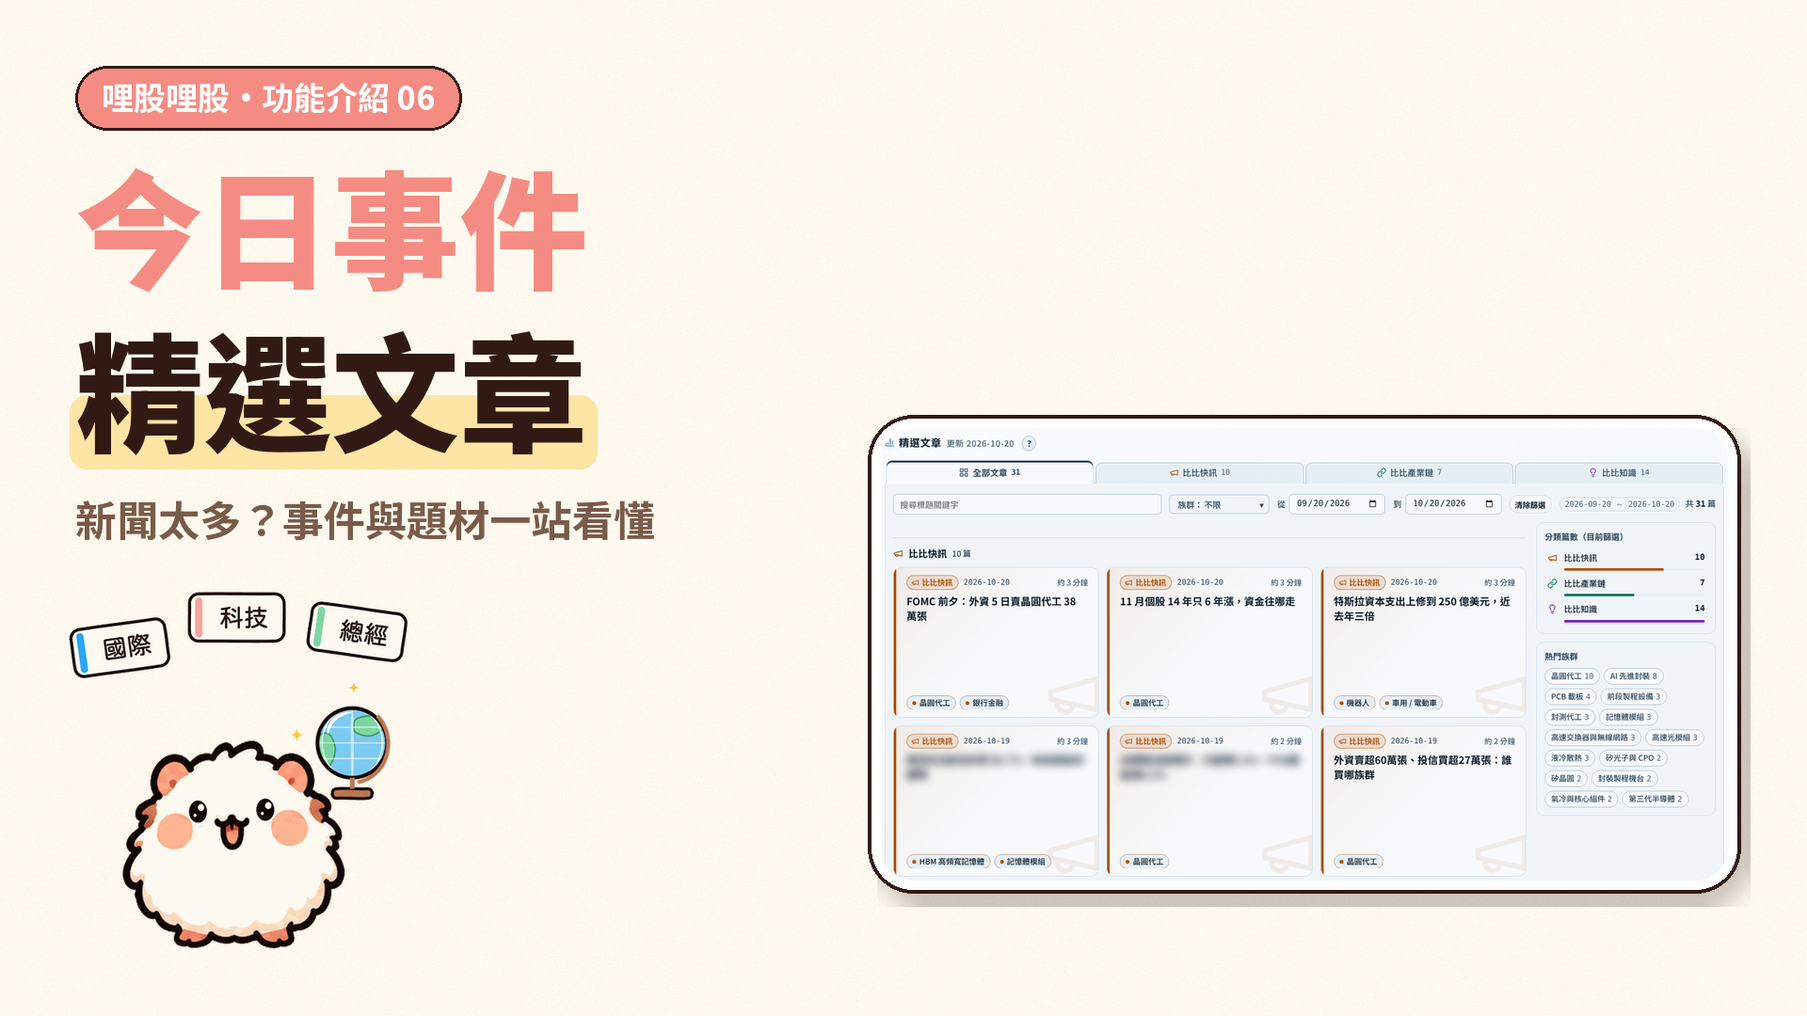
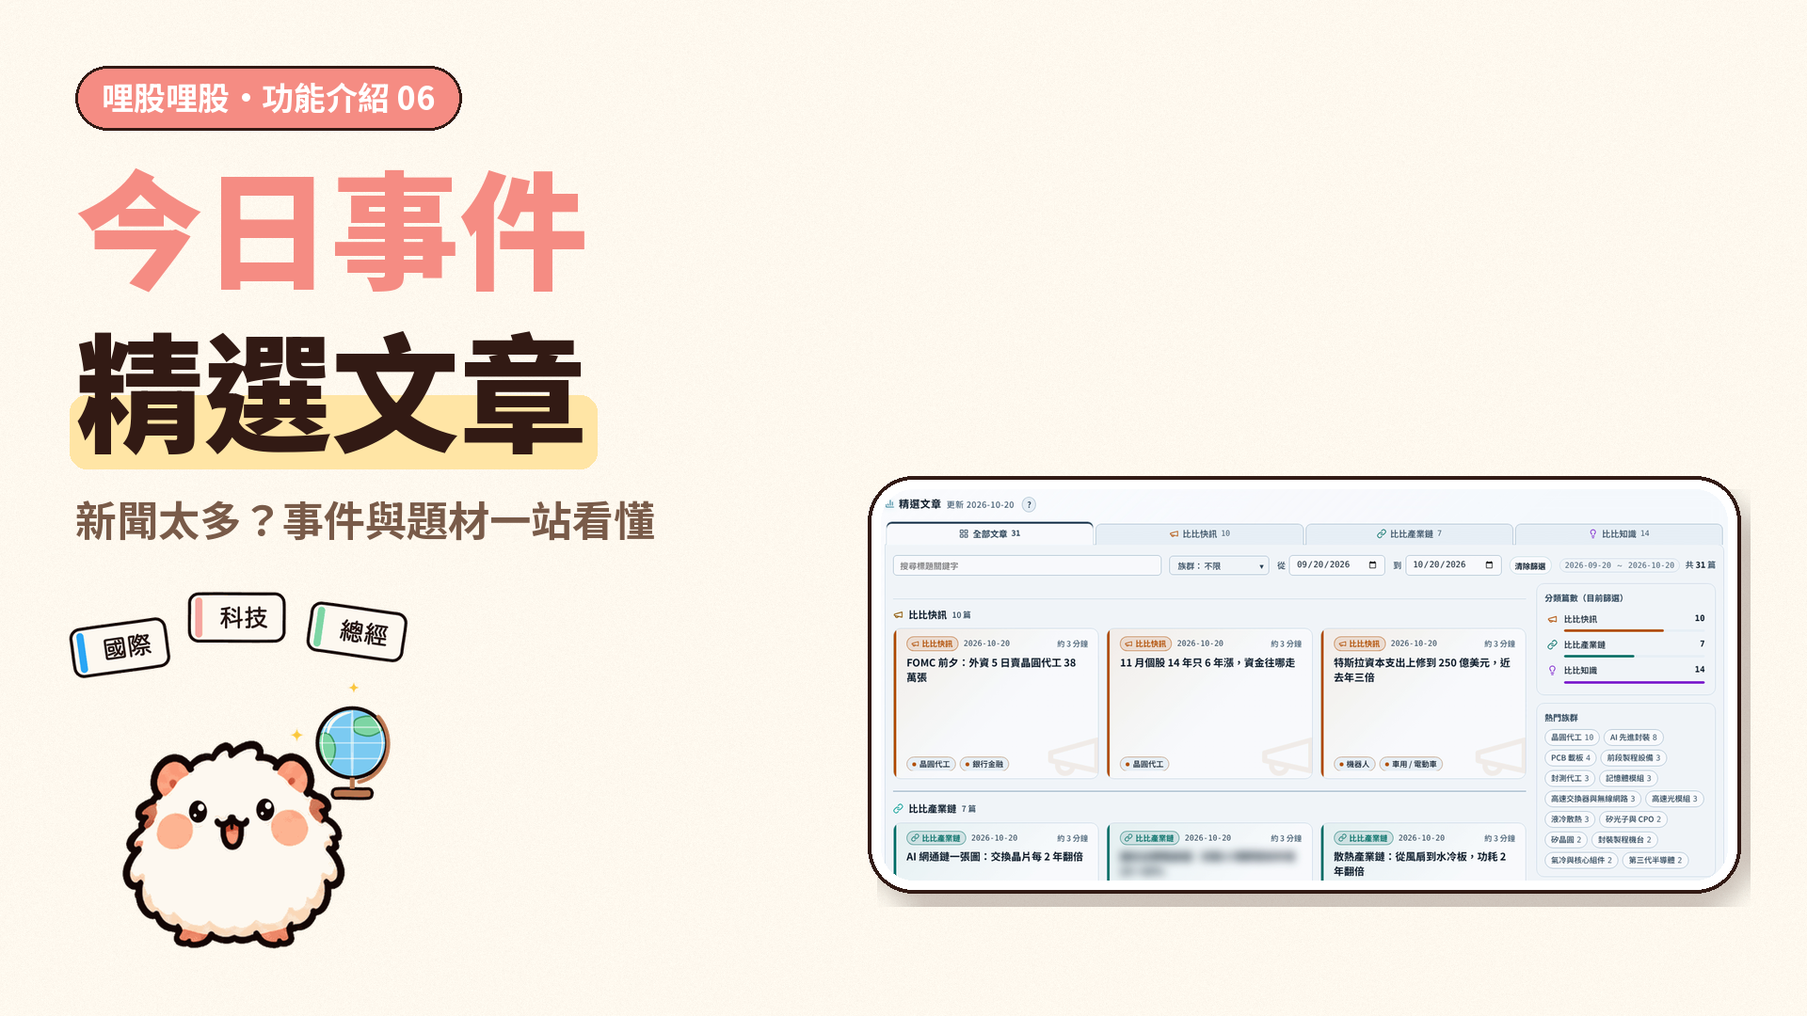
功能影片 6 網頁版 v3：文章段與特斯拉第一拍改推近（字放大 1.6 倍以上）、片尾推近、檢查報告更新
Claude-Session: https://claude.ai/code/session_01BcUKrYHkJGWWm6eHcrVxVX

Changed region(s): [[0.4688, 0.3972, 0.9688, 0.8861]]

diff --git a/docs/marketing/videos/feature_series/06_events_articles/capture_ev.py b/docs/marketing/videos/feature_series/06_events_articles/capture_ev.py
@@ -209,7 +209,7 @@ def goto(pg, hash_, wait=4000):
 EV_EDGES = ["txt:#evList .ev", "txt:#evFilters button", "#evDate", "txt:#evQuota", "txt:#side .side-h h3", "txt:#__vsel div"]
 NAV_EDGES = ["txt:#evToggle", "txt:#tabs .tab", ".search input"]
 TES_EDGES = ["txt:#artPost .artmeta", "txt:#artPost .artttl", "txt:#artHd", "txt:#artBody > figure", "txt:#artBody > p", "txt:#artBody > h4", "txt:#artBody > ul"]
-ART_EDGES = ["txt:.artc", "txt:#artCats>button", "txt:#artSide .gps button", "#artQ", "txt:#artSide .cr", "txt:.artflt", "txt:#artSide h5"]
+ART_EDGES = ["txt:.artc", "txt:#artCats>button", "txt:#artSide .gps button", "txt:#artSide .cr", "txt:.artflt", "txt:#artSide h5"]
 EV_HEAD = ["#side .side-h", "#evFilters"]
 
 
@@ -317,6 +317,25 @@ def fixed_rect(pg, sels):
     return f"rect:{x:.1f},{y:.1f},{w:.1f},{h:.1f}"
 
 
+SNAP_JS = r"""([x0, x1, y0, y1]) => { const boxes = []; const root = document.getElementById('v-articles') || document.body;
+  const w = document.createTreeWalker(root, NodeFilter.SHOW_TEXT); let n;
+  while ((n = w.nextNode())) { if (!n.textContent.trim()) continue; const pe = n.parentElement; if (!pe || pe.closest('[hidden]') || getComputedStyle(pe).visibility === 'hidden' || pe.closest('#__vsel')) continue;
+    const rg = document.createRange(); rg.selectNodeContents(n); for (const q of rg.getClientRects()) if (q.right > x0 && q.left < x1 && q.height > 1 && q.bottom > -50 && q.top < innerHeight + 50) boxes.push([q.top, q.bottom]); }
+  for (let k = 0; k < 40; k++) { let ch = false;
+    for (const [t, b] of boxes) { if (t - 4 < y0 && y0 < b + 4) { y0 = t - 5; ch = true; } if (t - 4 < y1 && y1 < b + 4) { y1 = b + 5; ch = true; } }
+    if (!ch) break; }
+  return [y0, y1]; }"""
+ASP = 1650 / 810
+
+
+def zr(pg, x, y0, w, y1=None):
+    """取景焦點 rect：寬 w（css）、從 y0 起、預設高＝w/畫面框比例；上下緣吸附到沒有文字橫跨的空白（左右緣由呼叫端挑在空白處）。
+    焦點可以比取景矮（取景會補到畫面框比例，多出來的部分淡化）。"""
+    y1 = y0 + w / ASP if y1 is None else y1
+    a, b = pg.evaluate(SNAP_JS, [x, x + w, y0, y1])
+    return f"rect:{x:.1f},{a:.1f},{w:.1f},{b - a:.1f}"
+
+
 def d_arts(pg, a, start):
     warm_articles(pg)
     goto(pg, "#overview", 3500)
@@ -326,24 +345,28 @@ def d_arts(pg, a, start):
     a.say("產業題材想一次看懂？", "face_curious")
     a.click('#tabs .tab[data-view="articles"]', label="選單：精選文章")
     a.wait(1800)
-    a.cam(["#v-articles .artcard h3", "#artCats", ".artflt", "firstn:6:#v-articles .artc", "#artSide section:nth-of-type(1)", "#artSide section:nth-of-type(2)"], 6, "精選文章（全圖定位）", edges=ART_EDGES)
+    a.cam(["#v-articles .artcard h3", "#artCats", ".artflt", "firstn:3:#v-articles .artc", "#artSide section:nth-of-type(1)", "#artSide section:nth-of-type(2)"], 6, "精選文章（全圖定位）", edges=ART_EDGES)
     a.say("文章分成三大類", "folder")
     a.idle(500)
-    FX = fixed_rect(pg, ["#artCats", "firstn:6:#v-articles .artc", "#artSide section:nth-of-type(1)", "#artSide section:nth-of-type(2)"])
-    a.cam([FX], 0, "推近：分類分頁＋文章卡", minw=F.ZMIN, edges=ART_EDGES, zoom=True)
+    # v3（退回：整頁縮在畫面框裡字太小）→ 推近到正在講的那一塊，字放大 ≥1.6 倍（卡片標題 ≥25px、頁籤 ≥22px，以 1080 高成片計）
+    RC = zr(pg, 584, 96, 1000, 524)       # 頁籤（快訊、產業鏈、知識）＋篩選列右半＋文章卡第二、三張＋右欄（下緣落在第一排卡與下一組之間）
+    a.cam([RC], 0, "推近：分類頁籤＋文章卡", minw=F.ZMIN, edges=ART_EDGES, zoom=True)
     for c, lab in (("news", "分類：比比快訊"), ("intro", "分類：比比產業鏈"), ("know", "分類：比比知識")):
         a.click(f'#artCats>button[data-cat="{c}"]', ms=380, pause=150, label=lab)
         a.wait(1000)
+    a.cam(["rect:252,96,332,60"], 0, "推近：全部文章頁籤", minw=F.ZMIN, edges=ART_EDGES, zoom=True)
     a.click('#artCats>button[data-cat="all"]', ms=380, pause=150, label="分類：全部文章")
     a.wait(700)
-    a.cam([FX], 0, "推近：熱門族群＋篩選結果", minw=F.ZMIN, edges=ART_EDGES, zoom=True)
+    HG = zr(pg, 584, 156, 1000, 529)      # 篩選列右半（清除篩選、篇數）＋文章卡＋右欄分類篇數與熱門族群（到第三排族群鈕）
+    a.cam([HG], 0, "推近：熱門族群＋篩選結果", minw=F.ZMIN, edges=ART_EDGES, zoom=True)
     a.say("點族群，只看相關文章", "magnifier")
     for g, lab in (("foundry", "族群：晶圓代工"), ("ai_adv_packaging", "族群：AI 先進封裝"), ("memory_module", "族群：記憶體模組")):
         a.click(f'#artSide .gps button[data-gid="{g}"]', ms=380, pause=150, label=lab)
         a.wait(1000)
     a.click('#artClr', ms=380, pause=150, label="清除篩選")
     a.wait(700)
-    a.cam([FX], 0, "推近：關鍵字搜尋", minw=F.ZMIN, edges=ART_EDGES, zoom=True)
+    SR = search_rect(pg)                # 搜尋框＋篩選列左半＋結果卡
+    a.cam([SR], 0, "推近：關鍵字搜尋", minw=F.ZMIN, edges=ART_EDGES + ["#artQ"], zoom=True)
     a.say("關鍵字搜標題", "magnifier")
     a.click("#artQ", ms=380, pause=120, label="搜尋框")
     a.type_text("#artQ", "Roadster")
@@ -354,17 +377,30 @@ def d_arts(pg, a, start):
     a.settle()
 
 
+LABEL_JS = r"""(t) => { const root = document.getElementById('v-articles'); const w = document.createTreeWalker(root, NodeFilter.SHOW_TEXT); let n;
+  while ((n = w.nextNode())) if (n.textContent.trim() === t) { const rg = document.createRange(); rg.selectNodeContents(n); const q = rg.getBoundingClientRect(); return [q.left, q.right]; } return null; }"""
+
+
+def search_rect(pg):
+    """搜尋框到「從」日期標籤之前（右緣落在族群下拉與「從」之間的空白），往下含第一排結果卡。"""
+    q = pg.evaluate(C.RECT_JS, "#artQ")
+    lf = pg.evaluate(LABEL_JS, "從")
+    x0 = q[0] - 14
+    x1 = lf[0] - 8
+    return zr(pg, x0, q[1] - 12, x1 - x0, q[1] + 370)   # 下緣：第一排結果卡的下方（卡片 236 高）
+
+
 def d_end(pg, a, start):
     warm_articles(pg)
     goto(pg, "#articles", 2500)
     a.x, a.y = 900, 500
     start()
-    FX = fixed_rect(pg, ["#artCats", "firstn:6:#v-articles .artc", "#artSide section:nth-of-type(1)", "#artSide section:nth-of-type(2)"])
-    a.cam([FX], 0, "精選文章", edges=ART_EDGES)
+    RC = zr(pg, 584, 96, 1000, 524)
+    a.cam([RC], 0, "推近：分類頁籤＋文章卡", minw=F.ZMIN, edges=ART_EDGES, zoom=True)
     a.say("事件＋文章，一站看懂", "proud_shine")
-    a.move(700, 500, 900)
-    FY = fixed_rect(pg, ["#artCats", ".artflt", "firstn:3:#v-articles .artc"])
-    a.cam([FY], 0, "推近：分類分頁＋第一排文章", minw=F.ZMIN, edges=ART_EDGES, zoom=True)
+    a.move(1000, 400, 900)
+    HG = zr(pg, 584, 156, 1000, 529)
+    a.cam([HG], 0, "推近：熱門族群＋文章卡", minw=F.ZMIN, edges=ART_EDGES, zoom=True)
     a.say("搜尋「哩股哩股」", "invite_nod")
     a.move(1000, 600, 900)
     a.settle()
@@ -533,12 +569,15 @@ def d_tesla(pg, a, start):
     card = '.artc[data-id="2026-10-17-news-tesla"]'
     a.x, a.y = 1000, 600
     start()
-    a.cam([".artflt", card, "#artSide section:nth-of-type(1)", "#artSide section:nth-of-type(2)"], 6, "推近：特斯拉那篇（限時公開）", minw=F.ZMIN, edges=ART_EDGES, zoom=True)
+    a.cam([search_rect(pg)], 0, "推近：特斯拉那篇（限時公開）", minw=F.ZMIN, edges=ART_EDGES + ["#artQ"], zoom=True)
     a.say("限時公開，免登入看", "face_cool")
     a.click(card, ms=420, pause=200, label="點進特斯拉那篇")
     a.until("() => !!document.querySelector('#artBody .artchart canvas')", 8000)
     a.wait(500)
-    a.cam(["#artPost .artmeta", "#artPost .artttl", "#artHd"], 8, "推近：標題、相關族群、摘要", minw=F.ZMIN, edges=TES_EDGES, zoom=True)
+    mr = pg.evaluate(C.RECT_JS, "#artPost .artmeta")
+    hr = pg.evaluate(C.RECT_JS, "#artHd")
+    TH = zr(pg, mr[0] - 6, mr[1] - 10, 1000, hr[1] + hr[3] + 6)   # 左側 1000 css：meta 列、標題、副標、相關族群、標籤、摘要（字放大 1.65 倍）
+    a.cam([TH], 0, "推近：標題、相關族群、摘要", minw=F.ZMIN, edges=TES_EDGES, zoom=True)
     a.say("發表會隔天，族群怎麼動", "surprise_jump")
     a.move(700, 400, 900)
     a.idle(500)
@@ -652,10 +691,10 @@ def run(dev, shots, out, port):
                 ctx.add_init_script(C.PRESET)
                 ctx.add_init_script(C.HIDE_B_JS)   # 法遵：B 類功能名稱不入鏡
                 ctx.add_init_script(CLIP_JS)
-                if dev == "d":   # 網頁版：文章清單每組只露出前 6 張卡（兩排）、右欄只留前兩節 → 取景框下緣能落在乾淨的空白處（只在錄影的瀏覽器裡，不改 site/）
-                    ctx.add_init_script("(() => { const go = () => { const st = document.createElement('style'); st.textContent = '#artList .artc:nth-child(n+7){display:none!important}#artSide section:nth-of-type(n+3){display:none!important}'; document.head.appendChild(st); }; document.readyState === 'loading' ? document.addEventListener('DOMContentLoaded', go) : go(); })();")
+                if dev == "d":   # 網頁版：文章清單每組只露出前 3 張卡（一排）、右欄只留前兩節 → 取景框下緣能落在乾淨的空白處（只在錄影的瀏覽器裡，不改 site/）
+                    ctx.add_init_script("(() => { const go = () => { const st = document.createElement('style'); st.textContent = '#artList .artc:nth-child(n+4){display:none!important}#artSide section:nth-of-type(n+3){display:none!important}'; document.head.appendChild(st); }; document.readyState === 'loading' ? document.addEventListener('DOMContentLoaded', go) : go(); })();")
                 ctx.add_init_script(BLUR_JS)       # 法遵：券商列、含公司名的標題、個股連結模糊
-                if dev == "d" and sid not in ("guide", "arts"):   # 桌機左側導覽收成圖示列：內容區更寬（引導段要看得到選單文字）
+                if dev == "d" and sid not in ("guide", "arts", "end"):   # 桌機左側導覽收成圖示列：內容區更寬（引導段要看得到選單文字）
                     ctx.add_init_script("try{localStorage.setItem('tw.layout4.nav','mini')}catch(e){}")
                 ctx.add_init_script(C.CURSOR_JS % ("true" if dev == "m" else "false"))
                 pg = ctx.new_page()

diff --git a/docs/marketing/videos/feature_series/06_events_articles/report_ev.py b/docs/marketing/videos/feature_series/06_events_articles/report_ev.py
@@ -83,7 +83,7 @@ def main():
         rep += [f"## {name}", "",
                 f"- 片長 {D:.2f} 秒；程式逐幀檢查 {j['frames']} 幀；元素外框外擴 {R.PAD}px 兩兩比對：**重疊 {j['overlaps']} 筆**；其他問題（泡泡字出框、尾巴離比比、超過 14 字、泡泡停留不足 1.45 秒）**{j['issues']} 筆**。",
                 "- 登記的元素：膠囊、標題、右上（上方）說明、功能導覽（網頁）、網站畫面框、泡泡（含尾巴）、比比（每一幀實際不透明外框）、片尾卡內各元素。",
-                f"- 人工抽格：原片每 0.5 秒存一張全解析度（scratchpad `feat06/samples_{dev}/`，共 {g.manual_d if dev == 'd' else g.manual_m} 張），全部排成縮圖總表逐張看過（重疊、出框、黑畫面）；全解析度原圖另開看過其中 14 張（日期下拉展開、文章全圖定位、搜尋、特斯拉各圖與步驟圖、片尾卡、封面），0 筆問題。未逐張開全解析度的格子只看過縮圖。",
+                f"- 人工抽格：原片每 0.5 秒存一張全解析度（scratchpad `feat06/samples_{dev}/`，共 {g.manual_d if dev == 'd' else g.manual_m} 張），全部排成縮圖總表逐張看過（重疊、出框、黑畫面）；全解析度原圖另開看過其中 17 張（日期下拉展開、文章段三拍推近、特斯拉標題拍與各圖與步驟圖、片尾卡、封面）；網頁版 v3 重點檢查另輸出縮圖總表（文章段、特斯拉第一拍），0 筆問題。未逐張開全解析度的格子只看過縮圖。",
                 f"- 點擊：{len(real)} 次點按鈕／元素，點擊特效中心＝錄影當下量到的元素中心，誤差最大 {max(errs) if errs else 0:.1f}px（影片像素）；"
                 f"拉桿點擊的中心＝依數值換算的拉桿位置、點完逐次核對拉桿實際數值；點擊落在畫面框外 {len(out)} 次。",
                 f"- 停格：成片 ffmpeg freezedetect（n=0.003、d=0.5）{len([x for x in fz if 'freeze_start' in x])} 筆；畫面框內來源畫面連續不動最長 {j['still_max_s']} 秒（{j['still_at']} 秒附近）。",

diff --git a/docs/marketing/videos/feature_series/06_events_articles/overlap_report.md b/docs/marketing/videos/feature_series/06_events_articles/overlap_report.md
@@ -6,10 +6,10 @@
 
 - 片長 48.27 秒；程式逐幀檢查 2169 幀；元素外框外擴 6px 兩兩比對：**重疊 0 筆**；其他問題（泡泡字出框、尾巴離比比、超過 14 字、泡泡停留不足 1.45 秒）**0 筆**。
 - 登記的元素：膠囊、標題、右上（上方）說明、功能導覽（網頁）、網站畫面框、泡泡（含尾巴）、比比（每一幀實際不透明外框）、片尾卡內各元素。
-- 人工抽格：原片每 0.5 秒存一張全解析度（scratchpad `feat06/samples_d/`，共 145 張），全部排成縮圖總表逐張看過（重疊、出框、黑畫面）；全解析度原圖另開看過其中 14 張（日期下拉展開、文章全圖定位、搜尋、特斯拉各圖與步驟圖、片尾卡、封面），0 筆問題。未逐張開全解析度的格子只看過縮圖。
+- 人工抽格：原片每 0.5 秒存一張全解析度（scratchpad `feat06/samples_d/`，共 145 張），全部排成縮圖總表逐張看過（重疊、出框、黑畫面）；全解析度原圖另開看過其中 17 張（日期下拉展開、文章段三拍推近、特斯拉標題拍與各圖與步驟圖、片尾卡、封面）；網頁版 v3 重點檢查另輸出縮圖總表（文章段、特斯拉第一拍），0 筆問題。未逐張開全解析度的格子只看過縮圖。
 - 點擊：28 次點按鈕／元素，點擊特效中心＝錄影當下量到的元素中心，誤差最大 2.5px（影片像素）；拉桿點擊的中心＝依數值換算的拉桿位置、點完逐次核對拉桿實際數值；點擊落在畫面框外 0 次。
-- 停格：成片 ffmpeg freezedetect（n=0.003、d=0.5）0 筆；畫面框內來源畫面連續不動最長 1.2 秒（7.7 秒附近）。
-- 鏡頭裁到介紹區塊的幀數（各段）：open 0, guide 0, events 0, arts 0, tesla 0, end 0；推移中（不計）：open 0, guide 25, events 0, arts 33, tesla 163, end 7。
+- 停格：成片 ffmpeg freezedetect（n=0.003、d=0.5）0 筆；畫面框內來源畫面連續不動最長 1.23 秒（24.63 秒附近）。
+- 鏡頭裁到介紹區塊的幀數（各段）：open 0, guide 0, events 0, arts 0, tesla 0, end 0；推移中（不計）：open 0, guide 25, events 0, arts 113, tesla 163, end 5。
 - 框邊切過文字的幀數（每一格量事件列、分類鈕、日期下拉、文章卡、分頁鈕、族群鈕、搜尋框的外框，與看得到的範圍部分相交就記一格）：open 0, guide 0, events 0, arts 0, tesla 0, end 0。
 - 推近拍：介紹內容佔畫面寬（最小值）／每 1 css 像素在成片上的像素（字放大倍數）：
   - open｜：佔寬 72%，每 css 像素 3.02px
@@ -21,17 +21,20 @@
   - events｜推近：日期下拉＋清單：佔寬 72%，每 css 像素 3.02px
   - arts｜：佔寬 98%，每 css 像素 7.58px
   - arts｜推近：左側選單「精選文章」：佔寬 98%，每 css 像素 7.58px
-  - arts｜推近：分類分頁＋文章卡：佔寬 94%，每 css 像素 1.19px
-  - arts｜推近：熱門族群＋篩選結果：佔寬 95%，每 css 像素 1.20px
-  - arts｜推近：關鍵字搜尋：佔寬 95%，每 css 像素 1.20px
-  - tesla｜：佔寬 99%，每 css 像素 1.13px
-  - tesla｜推近：特斯拉那篇（限時公開）：佔寬 99%，每 css 像素 1.13px
-  - tesla｜推近：標題、相關族群、摘要：佔寬 98%，每 css 像素 1.33px
+  - arts｜推近：分類頁籤＋文章卡：佔寬 98%，每 css 像素 1.62px
+  - arts｜推近：全部文章頁籤：佔寬 75%，每 css 像素 3.74px
+  - arts｜推近：熱門族群＋篩選結果：佔寬 99%，每 css 像素 1.63px
+  - arts｜推近：關鍵字搜尋：佔寬 76%，每 css 像素 2.08px
+  - tesla｜：佔寬 97%，每 css 像素 2.09px
+  - tesla｜推近：特斯拉那篇（限時公開）：佔寬 97%，每 css 像素 2.09px
+  - tesla｜推近：標題、相關族群、摘要：佔寬 99%，每 css 像素 1.63px
   - tesla｜推近：圖表 1 族群漲跌：佔寬 98%，每 css 像素 1.34px
   - tesla｜推近：圖表 2 加速規格：佔寬 98%，每 css 像素 1.34px
   - tesla｜推近：圖表 3 季交車量：佔寬 98%，每 css 像素 1.34px
   - tesla｜推近：步驟圖 接下來看什麼：佔寬 98%，每 css 像素 1.34px
-  - end｜推近：分類分頁＋第一排文章：佔寬 99%，每 css 像素 1.12px
+  - end｜：佔寬 99%，每 css 像素 1.63px
+  - end｜推近：分類頁籤＋文章卡：佔寬 99%，每 css 像素 1.63px
+  - end｜推近：熱門族群＋文章卡：佔寬 99%，每 css 像素 1.63px
 
 <details><summary>逐筆紀錄</summary>
 
@@ -77,7 +80,7 @@
 
 - 片長 53.70 秒；程式逐幀檢查 2413 幀；元素外框外擴 6px 兩兩比對：**重疊 0 筆**；其他問題（泡泡字出框、尾巴離比比、超過 14 字、泡泡停留不足 1.45 秒）**0 筆**。
 - 登記的元素：膠囊、標題、右上（上方）說明、功能導覽（網頁）、網站畫面框、泡泡（含尾巴）、比比（每一幀實際不透明外框）、片尾卡內各元素。
-- 人工抽格：原片每 0.5 秒存一張全解析度（scratchpad `feat06/samples_m/`，共 161 張），全部排成縮圖總表逐張看過（重疊、出框、黑畫面）；全解析度原圖另開看過其中 14 張（日期下拉展開、文章全圖定位、搜尋、特斯拉各圖與步驟圖、片尾卡、封面），0 筆問題。未逐張開全解析度的格子只看過縮圖。
+- 人工抽格：原片每 0.5 秒存一張全解析度（scratchpad `feat06/samples_m/`，共 161 張），全部排成縮圖總表逐張看過（重疊、出框、黑畫面）；全解析度原圖另開看過其中 17 張（日期下拉展開、文章段三拍推近、特斯拉標題拍與各圖與步驟圖、片尾卡、封面）；網頁版 v3 重點檢查另輸出縮圖總表（文章段、特斯拉第一拍），0 筆問題。未逐張開全解析度的格子只看過縮圖。
 - 點擊：32 次點按鈕／元素，點擊特效中心＝錄影當下量到的元素中心，誤差最大 0.0px（影片像素）；拉桿點擊的中心＝依數值換算的拉桿位置、點完逐次核對拉桿實際數值；點擊落在畫面框外 0 次。
 - 停格：成片 ffmpeg freezedetect（n=0.003、d=0.5）0 筆；畫面框內來源畫面連續不動最長 1.8 秒（1.8 秒附近）。
 - 鏡頭裁到介紹區塊的幀數（各段）：open 0, guide 0, events 0, arts 0, tesla 0, end 0；推移中（不計）：open 6, guide 43, events 0, arts 70, tesla 2, end 20。

diff --git a/docs/marketing/videos/feature_series/06_events_articles/storyboard.md b/docs/marketing/videos/feature_series/06_events_articles/storyboard.md
@@ -40,7 +40,7 @@
 ### 功能 2｜精選文章：分類、族群、關鍵字　22.1–44.4 秒
 
 - 目的：精選文章：側欄「精選文章」→ 全圖定位 → 推近分類分頁連點快訊、產業鏈、知識 → 熱門族群連點晶圓代工、AI 先進封裝、記憶體模組（篇數與卡片一起變）→ 清除篩選 → 關鍵字搜「Roadster」只剩特斯拉那篇（手機：族群用下拉勾選）
-- 畫面框（鏡頭）：22.2s 推近：左側選單「精選文章」、24.7s 精選文章（全圖定位）、26.2s 推近：分類分頁＋文章卡、32.7s 推近：熱門族群＋篩選結果、39.2s 推近：關鍵字搜尋
+- 畫面框（鏡頭）：22.2s 推近：左側選單「精選文章」、24.7s 精選文章（全圖定位）、26.2s 推近：分類頁籤＋文章卡、31.3s 推近：全部文章頁籤、32.7s 推近：熱門族群＋篩選結果、39.2s 推近：關鍵字搜尋
 - 操作：22.8s 選單：精選文章、26.8s 分類：比比快訊、28.5s 分類：比比產業鏈、30.2s 分類：比比知識、31.9s 分類：全部文章、33.3s 族群：晶圓代工、35.0s 族群：AI 先進封裝、36.7s 族群：記憶體模組、38.4s 清除篩選、39.8s 搜尋框
 - 泡泡（比比動作）：
   - 22.2s「產業題材想一次看懂？」（face_curious）
@@ -65,7 +65,7 @@
 ### 今日事件＋精選文章｜事件與題材，一站看懂　63.9–67.9 秒
 
 - 目的：收尾：價值總結＋CTA「搜尋「哩股哩股」」＋片尾免責
-- 畫面框（鏡頭）：63.9s 精選文章、65.8s 推近：分類分頁＋第一排文章
+- 畫面框（鏡頭）：63.9s 推近：分類頁籤＋文章卡、65.8s 推近：熱門族群＋文章卡
 - 操作：
 - 泡泡（比比動作）：
   - 63.9s「事件＋文章，一站看懂」（proud_shine）
